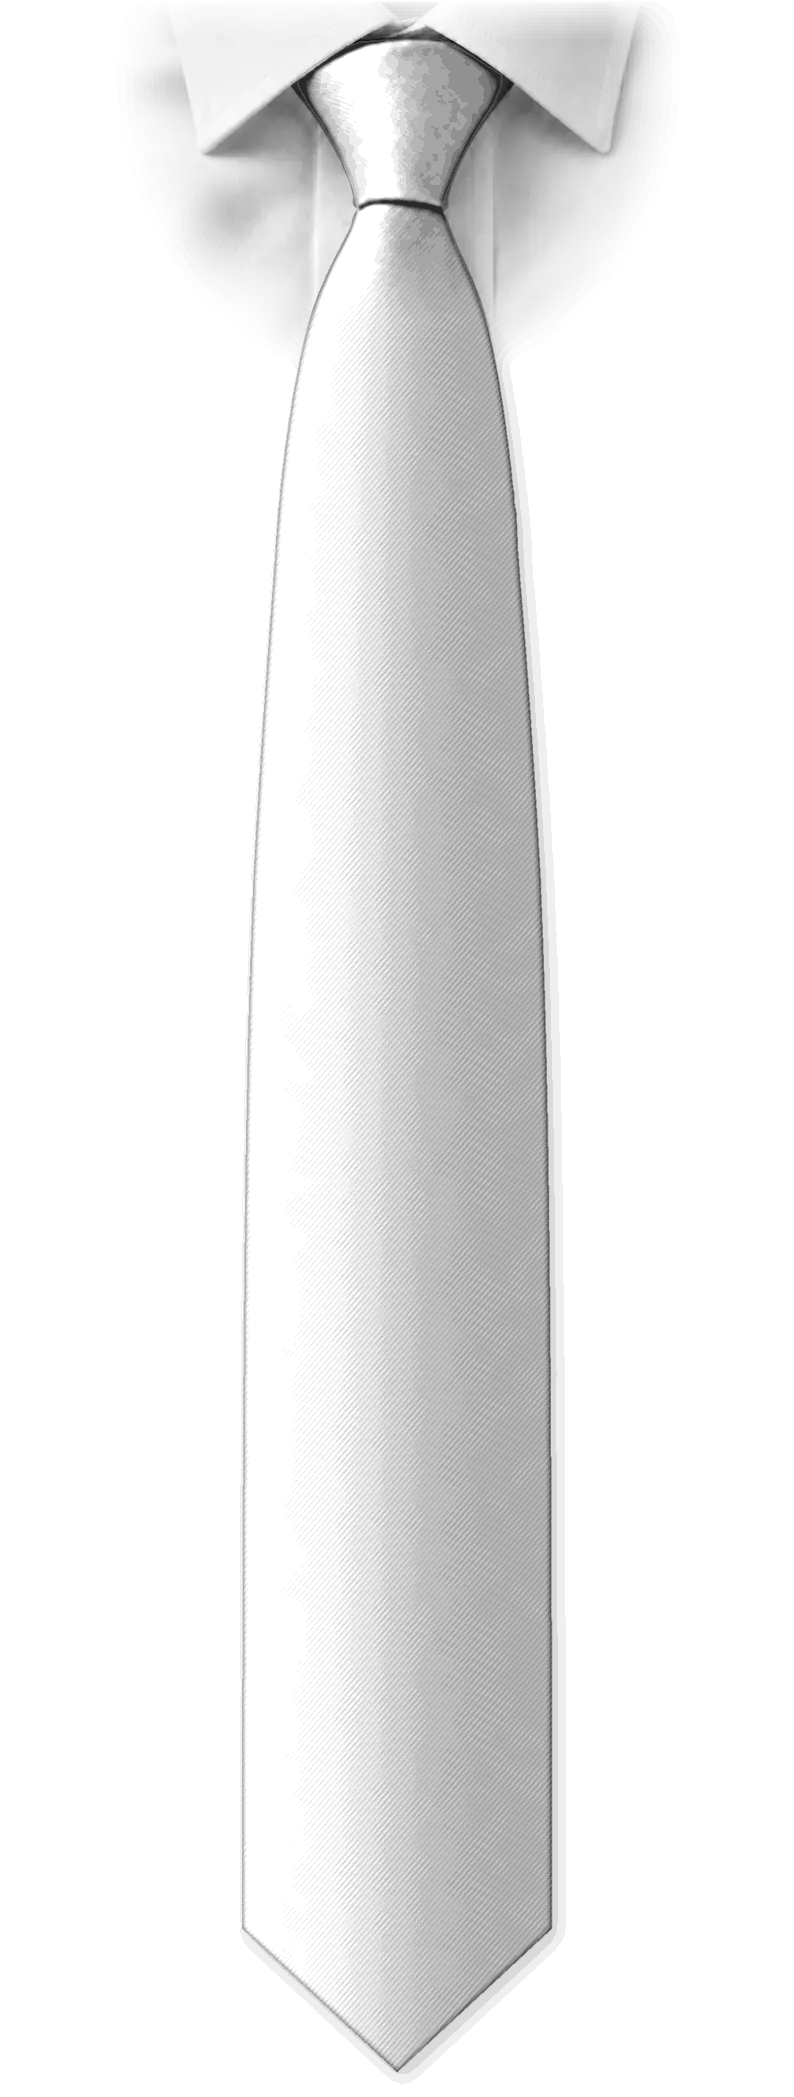
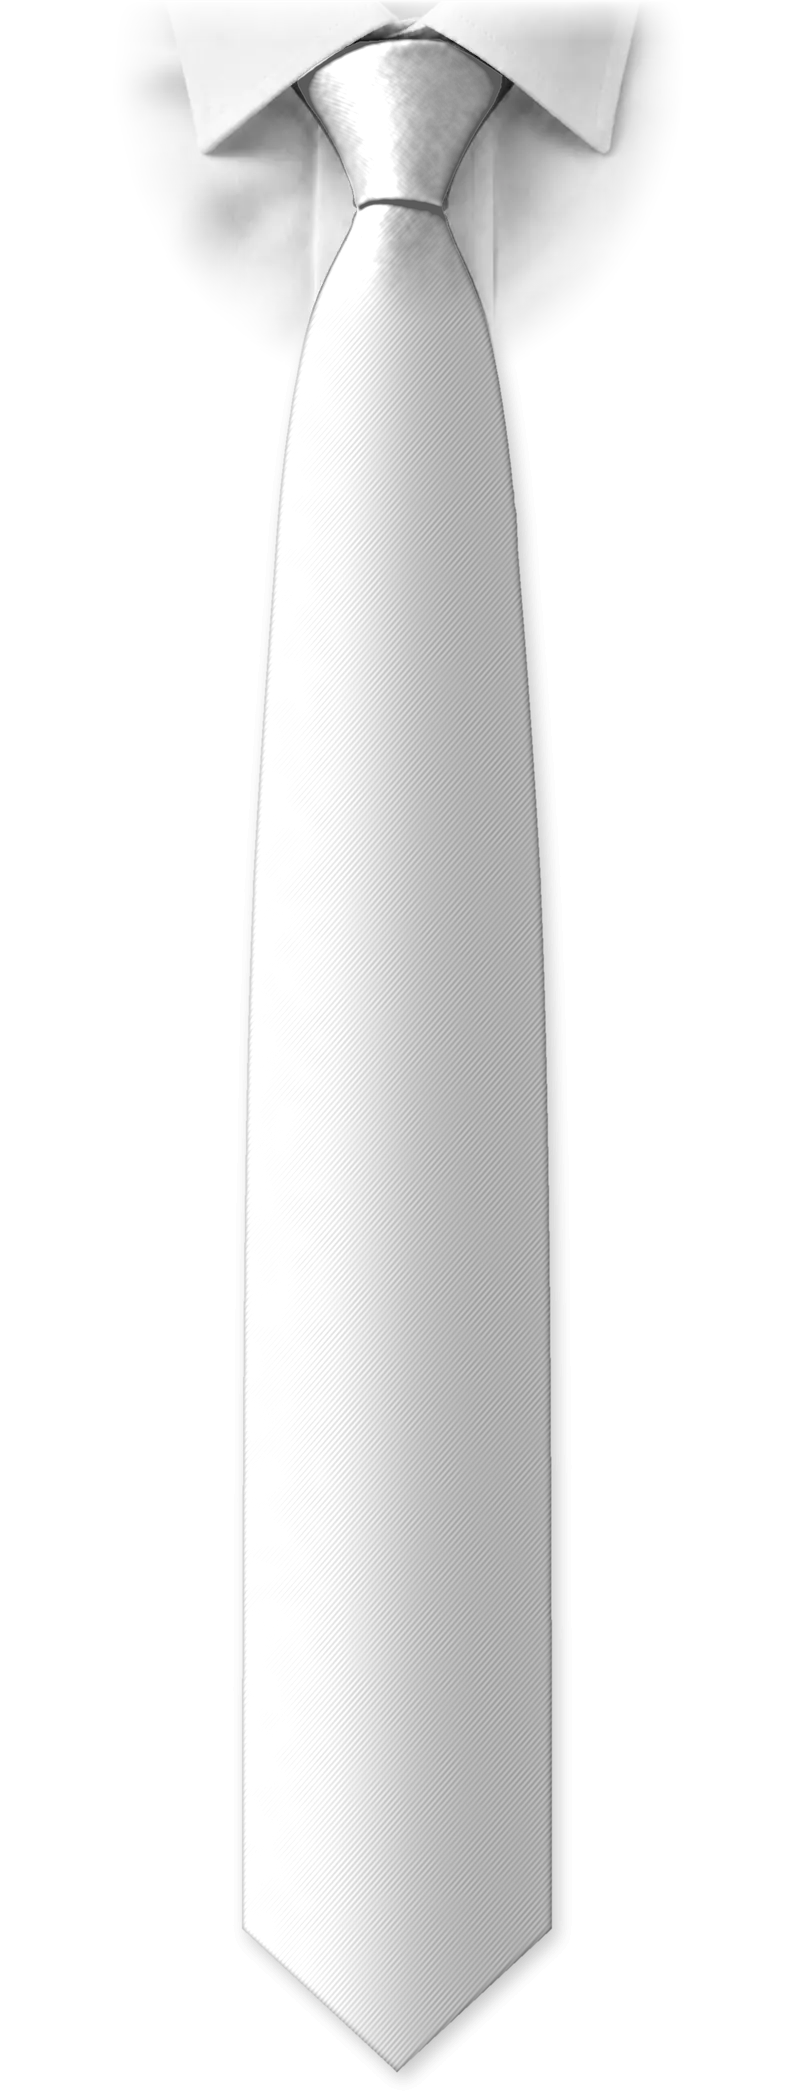
실사 넥타이 명암의 윤곽선과 매듭 얼룩을 정리
- 가장자리 어둡힘 0.55 → 0.3, 어둡힘 상한 0.82 → 0.65 — 밝은 넥타이에서 연필 윤곽선·매듭 아래 검은 줄이 되던 것
- WebP 알파 품질 60 → 80 — 밝은 넥타이 매듭 명암이 포스터라이즈되던 것(용량 121KB → 229KB)
- worker tie-shadow.png도 같은 스크립트 산출물로 갱신(참고 렌더가 TieCanvas와 같은 명암)

Changed region(s): [[0.6045, 0.031, 0.6348, 0.062], [0.5441, 0.093, 0.5743, 0.124], [0.3627, 0.031, 0.3929, 0.062]]

diff --git a/apps/worker/scripts/extract_tie_assets.py b/apps/worker/scripts/extract_tie_assets.py
@@ -204,13 +204,14 @@ ref = float(np.percentile(tie_l[KT:1500][np.asarray(mask, bool)[KT:1500]], 80))
 ratio = tie_l / ref
 # 천 가장자리가 말려 들어가며 살짝 어두워진다(사진 가장자리의 셔츠 반사도 덮는다)
 rim = 1 - np.asarray(mask.filter(ImageFilter.GaussianBlur(5)), np.float32) / 255
-ratio = np.minimum(ratio, 1) - rim * 0.55 + np.maximum(ratio - 1, 0) * (1 - rim * 2).clip(0, 1)
+# 테두리 0.55·상한 0.82는 밝은 넥타이에서 연필 윤곽선·매듭 아래 검은 줄이 된다 — 0.3·0.65.
+ratio = np.minimum(ratio, 1) - rim * 0.3 + np.maximum(ratio - 1, 0) * (1 - rim * 2).clip(0, 1)
 # 끝 삼각형 가장자리는 살짝 어둡게(접힌 천 두께)
 tie_rgba = np.zeros((H, PW, 2), np.float32)  # (회색값, 알파)
 dark = (1 - ratio).clip(0, None)
 light = (ratio - 1).clip(0, None)
 tie_rgba[..., 0] = np.where(ratio < 1, 0, 255)
-tie_rgba[..., 1] = np.where(ratio < 1, (dark * 1.5).clip(0, 0.82), (light * 0.7).clip(0, 0.3))
+tie_rgba[..., 1] = np.where(ratio < 1, (dark * 1.5).clip(0, 0.65), (light * 0.7).clip(0, 0.3))
 m = np.asarray(mask.filter(ImageFilter.GaussianBlur(0.8)), np.float32) / 255
 tie_rgba[..., 1] *= m
 
@@ -265,8 +266,9 @@ a = Image.fromarray((layer[..., 1] * 255).clip(0, 255).astype(np.uint8))
 shadow = Image.merge("LA", (place(g), place(a)))
 shadow.save(f"{out_dir}/tie-shadow.png", optimize=True)
 # 웹(store·admin public/images)은 WebP — PNG는 600KB대라 첫 로딩이 무겁다.
-# 알파를 60까지 낮춰도 합성 결과 차이는 평균 1 미만.
-shadow.convert("RGBA").save(f"{out_dir}/tie-shadow.webp", quality=75, alpha_quality=60, method=6)
+# 알파 품질 60은 평균 차이는 작아도 밝은 넥타이 매듭 명암이 얼룩(포스터라이즈)진다
+# — 80부터 PNG와 같다.
+shadow.convert("RGBA").save(f"{out_dir}/tie-shadow.webp", quality=75, alpha_quality=80, method=6)
 for name, mm in (("tie-mask.png", mask), ("tie-knot-mask.png", knot_mask)):
     am = place(mm)
     Image.merge("LA", (Image.new("L", am.size, 0), am)).save(f"{out_dir}/{name}", optimize=True)
